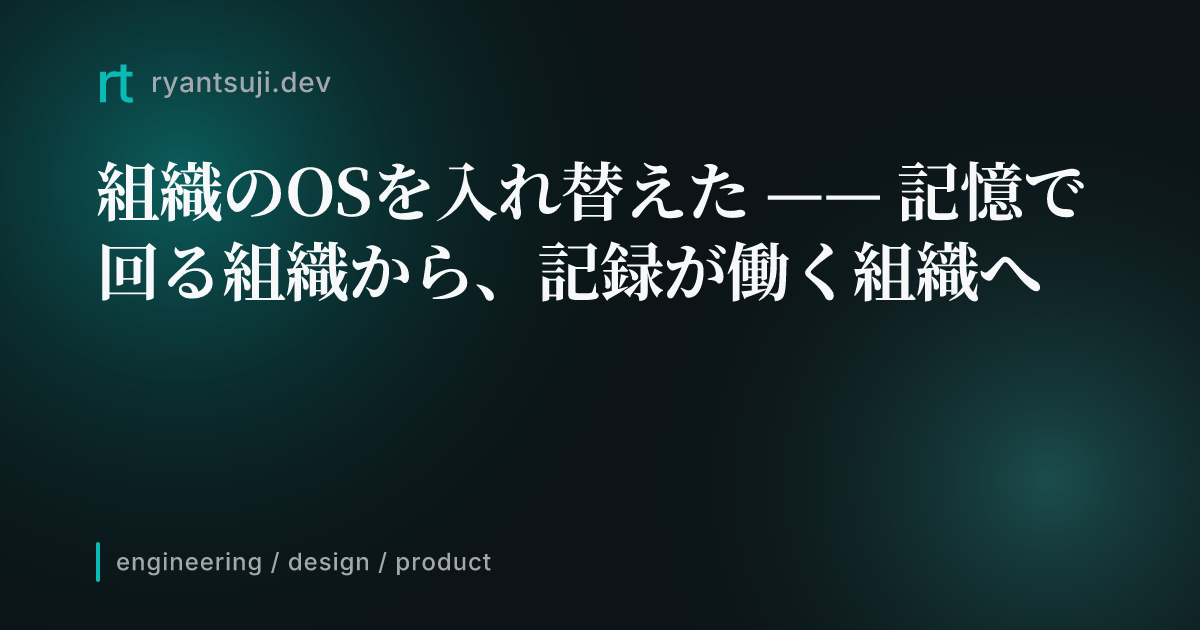
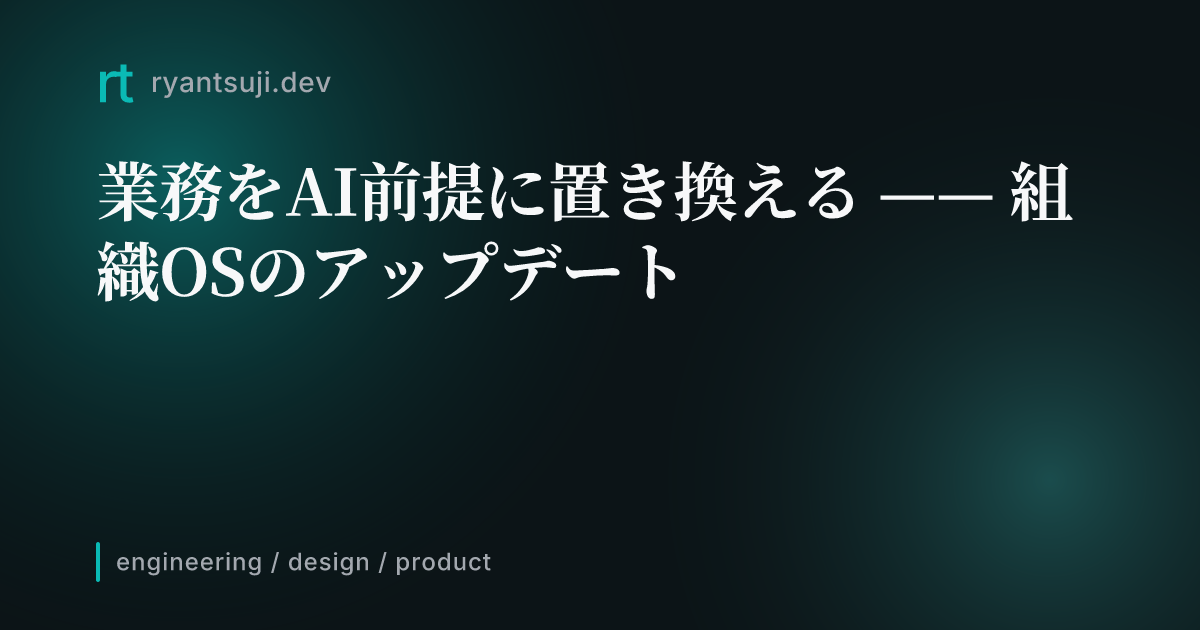
feat(posts): 組織OS第1回のタイトルを「業務をAI前提に置き換える」にし、途中である書き方に揃える

Changed region(s): [[0.0617, 0.2413, 0.925, 0.4825]]

diff --git a/posts/org-os-overview.ja.md b/posts/org-os-overview.ja.md
@@ -1,8 +1,8 @@
 ---
-title: "組織のOSを入れ替えた ── 記憶で回る組織から、記録が働く組織へ"
+title: "業務をAI前提に置き換える ── 組織OSのアップデート"
 publishedAt: "2099-01-01"
 slug: "org-os-overview"
-summary: "投稿を休んでいた3ヶ月で、社内の業務をAI前提に置き換えてきた。1on1、会議、組織課題、改善要望、要件定義、評価、CSや経営管理の業務まで。連載の総論として、何をどう変えたのか、その共通の型と、人に残した判断を紹介する。"
+summary: "投稿を休んでいた3ヶ月、社内の業務をAI前提に置き換えてきた。まだ途中だが、1on1、会議、組織課題、改善要望、要件定義、評価、CSや経営管理の業務まで。連載の総論として、何をどう変えたのか、その共通の型と、人に残した判断を紹介する。"
 emoji: "🧬"
 tags:
   - "ai"
@@ -20,16 +20,12 @@ syndication:
 ---
 
 <!--
-タイトル候補:
-  A. 組織のOSを入れ替えた ── 記憶で回る組織から、記録が働く組織へ
-  B. 業務をAI前提に置き換える ── 組織OSのアップデート
-  C. AIを業務に足すのではなく、業務をAI前提に作り直す
 TODO マーカーは事実確認が必要な箇所。
 -->
 
 みなさまこんにちは！エアークローゼットでCTOをしている[辻](https://x.com/RyanAircloset)です。
 
-しばらく更新が空いてしまいました。その間、記事を書く代わりに、**組織のOSを入れ替えていました**。
+しばらく更新が空いてしまいました。その間、記事を書く代わりに、**組織のOSをアップデートしていました**。
 
 まずは何が変わったのかを、表で見てください。
 
@@ -182,12 +178,12 @@ AIが「それらしく埋める」ことが一番危ないのは、人やお金
 
 ## おわりに
 
-組織のOSを入れ替えるといっても、やったことの1つひとつは地味です。記録の置き場を決め、正本を1つにし、AIに下書きを任せ、人が確定する。その繰り返しです。
+組織のOSをアップデートするといっても、やったことの1つひとつは地味です。記録の置き場を決め、正本を1つにし、AIに下書きを任せ、人が確定する。その繰り返しで、今も続いています。
 
 ただ、それを業務ごとに積み重ねていくと、いつの間にか「誰の頭の中にあるか」を気にせずに仕事が進むようになります。
 
 そして、置き換えるたびに必ず問われるのが、「では、人は何を判断するのか」です。
 
-**OSを入れ替えるとは、人が何を判断するかを決め直すことでした。**
+**組織のOSをアップデートするとは、人が何を判断するかを決め直し続けることです。**
 
 次回は、その土台になった会議のデータ化、Meetの話です。
